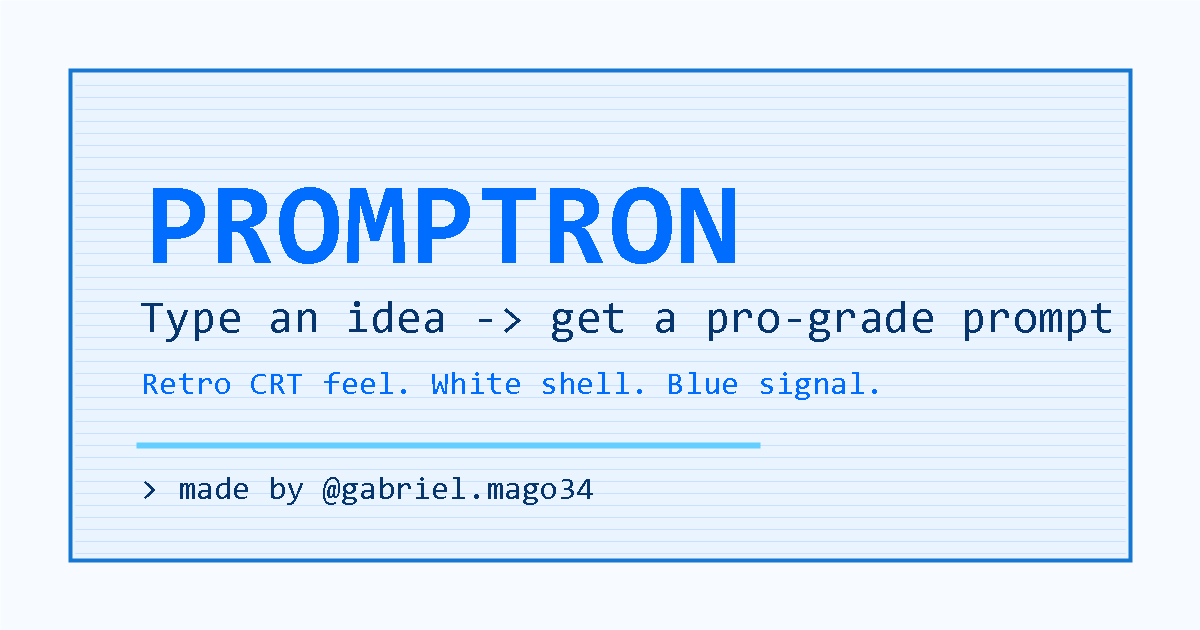
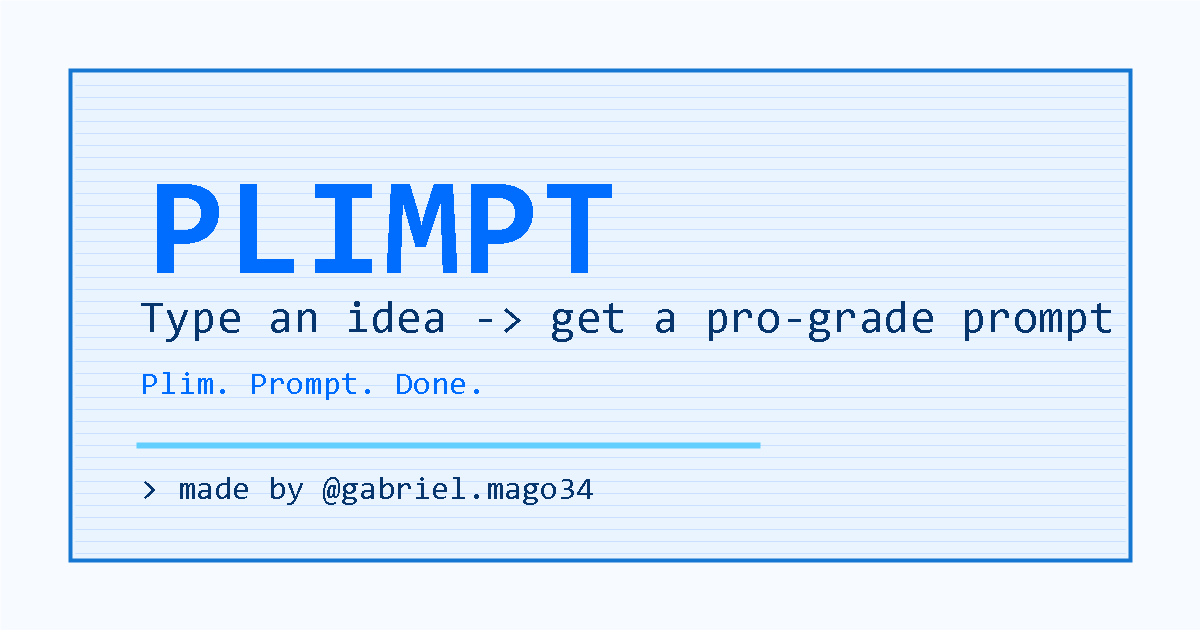
chore: rename project to plimpt

Changed region(s): [[0.1233, 0.2714, 0.6167, 0.4524], [0.1233, 0.573, 0.5242, 0.6333], [0.555, 0.573, 0.74, 0.6333]]

diff --git a/index.html b/index.html
@@ -8,11 +8,11 @@
     <meta name="referrer" content="no-referrer">
     <meta http-equiv="Content-Security-Policy" content="default-src 'self'; script-src 'self'; style-src 'self' https://fonts.googleapis.com; font-src 'self' https://fonts.gstatic.com; img-src 'self' data:; connect-src 'self'; object-src 'none'; base-uri 'self'; form-action 'self'; frame-ancestors 'none'; worker-src 'self'; manifest-src 'self'">
     <meta http-equiv="Permissions-Policy" content="camera=(), microphone=(), geolocation=(), payment=(), usb=(), interest-cohort=()">
-    <meta property="og:title" content="PROMPTRON">
+    <meta property="og:title" content="PLIMPT">
     <meta property="og:description" content="Type an idea and get a pro-grade prompt. Retro vibes, zero install, runs in your browser.">
     <meta property="og:image" content="assets/og-image.png">
     <meta name="theme-color" content="#eaf4ff">
-    <title>PROMPTRON - Type an idea -> get a pro-grade prompt</title>
+    <title>PLIMPT - Type an idea -> get a pro-grade prompt</title>
     <link rel="icon" href="assets/favicon.svg" type="image/svg+xml">
     <link rel="manifest" href="manifest.webmanifest">
     <link rel="preconnect" href="https://fonts.googleapis.com">
@@ -25,7 +25,7 @@
   <body class="theme-whiteblue">
     <div class="crt-layer" aria-hidden="true"></div>
     <div class="boot-screen" id="bootScreen" aria-hidden="true">
-      <pre>PROMPTRON BIOS v3.0
+      <pre>PLIMPT BIOS v3.0
 Memory check ............. 640K OK
 Loading prompt engine .... [OK]
 Loading templates ........ [OK]
@@ -39,7 +39,7 @@ Ready.</pre>
             <span class="window-dot"></span>
             <span class="window-dot"></span>
             <span class="window-dot"></span>
-            <span>PROMPTRON.EXE</span>
+            <span>PLIMPT.EXE</span>
           </div>
           <div class="titlebar-actions">
             <button class="icon-button" id="historyToggle" type="button" title="History" aria-label="History">▣</button>
@@ -50,14 +50,14 @@ Ready.</pre>
 
         <header class="hero-panel reveal">
           <div class="ascii-logo" aria-hidden="true">
- ____  ____   ___  __  __ ____ _____ ____   ___  _   _
-|  _ \|  _ \ / _ \|  \/  |  _ \_   _|  _ \ / _ \| \ | |
-| |_) | |_) | | | | |\/| | |_) || | | |_) | | | |  \| |
-|  __/|  _ <| |_| | |  | |  __/ | | |  _ <| |_| | |\  |
-|_|   |_| \_\\___/|_|  |_|_|    |_| |_| \_\\___/|_| \_|
+ ____  _     ___ __  __ ____ _____
+|  _ \| |   |_ _|  \/  |  _ \_   _|
+| |_) | |    | || |\/| | |_) || |
+|  __/| |___ | || |  | |  __/ | |
+|_|   |_____|___|_|  |_|_|    |_|
           </div>
           <div class="hero-copy">
-            <h1 id="appTitle" class="glitch" data-text="PROMPTRON">PROMPTRON</h1>
+            <h1 id="appTitle" class="glitch" data-text="PLIMPT">PLIMPT</h1>
             <p data-i18n="tagline">&gt; turning vague ideas into surgical prompts since 199X</p>
           </div>
           <div class="clock" id="clock" aria-live="polite">[ 00:00:00 ]</div>

diff --git a/scripts/app.js b/scripts/app.js
@@ -416,10 +416,10 @@ function runCommand(command) {
     updateCounters();
     nodes.commandOutput.textContent = "output cleared";
   } else if (name === "/export") {
-    downloadText("promptron-export.json", JSON.stringify(exportData(), null, 2), "application/json");
+    downloadText("plimpt-export.json", JSON.stringify(exportData(), null, 2), "application/json");
     nodes.commandOutput.textContent = "export downloaded";
   } else if (name === "/about") {
-    nodes.commandOutput.textContent = "PROMPTRON: retro prompt machine. 100% client-side. created by Gabriel — instagram.com/gabriel.mago34";
+    nodes.commandOutput.textContent = "PLIMPT: retro prompt machine. 100% client-side. created by Gabriel — instagram.com/gabriel.mago34";
   } else {
     nodes.commandOutput.textContent = "unknown command. try /help";
   }
@@ -475,7 +475,7 @@ function bindEvents() {
 
   nodes.download.addEventListener("click", () => {
     if (!state.lastPrompt) return;
-    downloadText("promptron-prompt.md", state.lastPrompt, "text/markdown");
+    downloadText("plimpt-prompt.md", state.lastPrompt, "text/markdown");
     showToast("DOWNLOADED");
   });
 
@@ -513,7 +513,7 @@ function bindEvents() {
     else clearFavorites();
     renderDrawer();
   });
-  nodes.export.addEventListener("click", () => downloadText("promptron-export.json", JSON.stringify(exportData(), null, 2), "application/json"));
+  nodes.export.addEventListener("click", () => downloadText("plimpt-export.json", JSON.stringify(exportData(), null, 2), "application/json"));
 
   nodes.command.addEventListener("keydown", (event) => {
     if (event.key === "Enter") {

diff --git a/scripts/effects.js b/scripts/effects.js
@@ -31,12 +31,12 @@ export function rainAscii() {
 }
 
 export function runBoot(bootScreen, callback) {
-  if (!bootScreen || prefersReducedMotion() || sessionStorage.getItem("promptron:booted")) {
+  if (!bootScreen || prefersReducedMotion() || sessionStorage.getItem("plimpt:booted")) {
     bootScreen?.remove();
     callback?.();
     return;
   }
-  sessionStorage.setItem("promptron:booted", "1");
+  sessionStorage.setItem("plimpt:booted", "1");
   setTimeout(() => {
     bootScreen.classList.add("hide");
     setTimeout(() => bootScreen.remove(), 320);

diff --git a/scripts/storage.js b/scripts/storage.js
@@ -1,4 +1,4 @@
-const PREFIX = "promptron:";
+const PREFIX = "plimpt:";
 
 function read(key, fallback) {
   try {

diff --git a/sw.js b/sw.js
@@ -1,4 +1,4 @@
-const CACHE_NAME = "promptron-v8";
+const CACHE_NAME = "plimpt-v1";
 const ASSETS = [
   "./",
   "./index.html",

diff --git a/README.md b/README.md
@@ -1,11 +1,11 @@
 <div align="center">
 
 ```text
- ____  ____   ___  __  __ ____ _____ ____   ___  _   _
-|  _ \|  _ \ / _ \|  \/  |  _ \_   _|  _ \ / _ \| \ | |
-| |_) | |_) | | | | |\/| | |_) || | | |_) | | | |  \| |
-|  __/|  _ <| |_| | |  | |  __/ | | |  _ <| |_| | |\  |
-|_|   |_| \_\\___/|_|  |_|_|    |_| |_| \_\\___/|_| \_|
+ ____  _     ___ __  __ ____ _____
+|  _ \| |   |_ _|  \/  |  _ \_   _|
+| |_) | |    | || |\/| | |_) || |
+|  __/| |___ | || |  | |  __/ | |
+|_|   |_____|___|_|  |_|_|    |_|
 ```
 
 ### Type an idea -> get a pro-grade prompt. Retro vibes, zero install, runs in your browser.
@@ -17,15 +17,15 @@
 ![PRs Welcome](https://img.shields.io/badge/PRs-welcome-brightgreen.svg)
 [![Instagram](https://img.shields.io/badge/Instagram-%40gabriel.mago34-E4405F?logo=instagram&logoColor=white)](https://instagram.com/gabriel.mago34)
 
-**[Live Demo](https://YOUR_USER.github.io/promptron)** · [Português](README.pt-BR.md) · [Contribute a template](CONTRIBUTING.md) · [Instagram @gabriel.mago34](https://instagram.com/gabriel.mago34)
+**[Live Demo](https://YOUR_USER.github.io/plimpt)** · [Português](README.pt-BR.md) · [Contribute a template](CONTRIBUTING.md) · [Instagram @gabriel.mago34](https://instagram.com/gabriel.mago34)
 
 </div>
 
-![PROMPTRON preview](assets/og-image.png)
+![PLIMPT preview](assets/og-image.png)
 
 ## What is this?
 
-PROMPTRON turns a vague idea into a detailed, ready-to-use prompt. Pick a category, pick your target model, tweak a couple of options, hit **GENERATE**, and copy.
+PLIMPT turns a vague idea into a detailed, ready-to-use prompt. Pick a category, pick your target model, tweak a couple of options, hit **GENERATE**, and copy.
 
 - **23 categories**: images, websites, SaaS, code, writing, marketing, music, video, system prompts, and more.
 - **Model-aware output**: XML for Claude, Markdown for GPT, labeled checks for Gemini, comma formulas for image models.
@@ -39,8 +39,8 @@ PROMPTRON turns a vague idea into a detailed, ready-to-use prompt. Pick a catego
 No build step.
 
 ```bash
-git clone https://github.com/YOUR_USER/promptron.git
-cd promptron
+git clone https://github.com/YOUR_USER/plimpt.git
+cd plimpt
 python3 -m http.server 8080
 ```
 

diff --git a/README.pt-BR.md b/README.pt-BR.md
@@ -1,11 +1,11 @@
 <div align="center">
 
 ```text
- ____  ____   ___  __  __ ____ _____ ____   ___  _   _
-|  _ \|  _ \ / _ \|  \/  |  _ \_   _|  _ \ / _ \| \ | |
-| |_) | |_) | | | | |\/| | |_) || | | |_) | | | |  \| |
-|  __/|  _ <| |_| | |  | |  __/ | | |  _ <| |_| | |\  |
-|_|   |_| \_\\___/|_|  |_|_|    |_| |_| \_\\___/|_| \_|
+ ____  _     ___ __  __ ____ _____
+|  _ \| |   |_ _|  \/  |  _ \_   _|
+| |_) | |    | || |\/| | |_) || |
+|  __/| |___ | || |  | |  __/ | |
+|_|   |_____|___|_|  |_|_|    |_|
 ```
 
 ### Digite uma ideia -> receba um prompt profissional. Visual retrô, zero instalação, roda no navegador.
@@ -16,15 +16,15 @@
 ![PWA](https://img.shields.io/badge/PWA-instal%C3%A1vel-blueviolet)
 [![Instagram](https://img.shields.io/badge/Instagram-%40gabriel.mago34-E4405F?logo=instagram&logoColor=white)](https://instagram.com/gabriel.mago34)
 
-**[Demo ao vivo](https://YOUR_USER.github.io/promptron)** · [English](README.md) · [Contribuir template](CONTRIBUTING.md) · [Instagram @gabriel.mago34](https://instagram.com/gabriel.mago34)
+**[Demo ao vivo](https://YOUR_USER.github.io/plimpt)** · [English](README.md) · [Contribuir template](CONTRIBUTING.md) · [Instagram @gabriel.mago34](https://instagram.com/gabriel.mago34)
 
 </div>
 
-![Prévia do PROMPTRON](assets/og-image.png)
+![Prévia do PLIMPT](assets/og-image.png)
 
 ## O que é?
 
-PROMPTRON transforma uma ideia vaga em um prompt detalhado e pronto para usar. Escolha uma categoria, escolha o modelo alvo, ajuste poucas opções, clique em **GENERATE** e copie.
+PLIMPT transforma uma ideia vaga em um prompt detalhado e pronto para usar. Escolha uma categoria, escolha o modelo alvo, ajuste poucas opções, clique em **GENERATE** e copie.
 
 - **23 categorias**: imagem, site, SaaS, código, escrita, marketing, música, vídeo, prompts de sistema e mais.
 - **Saída adaptada por modelo**: XML para Claude, Markdown para GPT, checagem para Gemini, fórmula em vírgulas para modelos de imagem.
@@ -38,8 +38,8 @@ PROMPTRON transforma uma ideia vaga em um prompt detalhado e pronto para usar. E
 Sem etapa de build.
 
 ```bash
-git clone https://github.com/YOUR_USER/promptron.git
-cd promptron
+git clone https://github.com/YOUR_USER/plimpt.git
+cd plimpt
 python3 -m http.server 8080
 ```
 

diff --git a/CODE_OF_CONDUCT.md b/CODE_OF_CONDUCT.md
@@ -1,6 +1,6 @@
 # Code of Conduct
 
-PROMPTRON is a friendly open-source project. Be respectful, constructive, and patient with people of all skill levels.
+PLIMPT is a friendly open-source project. Be respectful, constructive, and patient with people of all skill levels.
 
 ## Expected Behavior
 

diff --git a/CONTRIBUTING.md b/CONTRIBUTING.md
@@ -1,4 +1,4 @@
-# Contributing to PROMPTRON
+# Contributing to PLIMPT
 
 Thanks for helping this little prompt machine grow.
 

diff --git a/SECURITY.md b/SECURITY.md
@@ -1,6 +1,6 @@
 # Security Policy
 
-PROMPTRON is a static, client-side app. It does not have accounts, cookies, analytics, tracking scripts, or a backend API.
+PLIMPT is a static, client-side app. It does not have accounts, cookies, analytics, tracking scripts, or a backend API.
 
 ## Built-in Protections
 